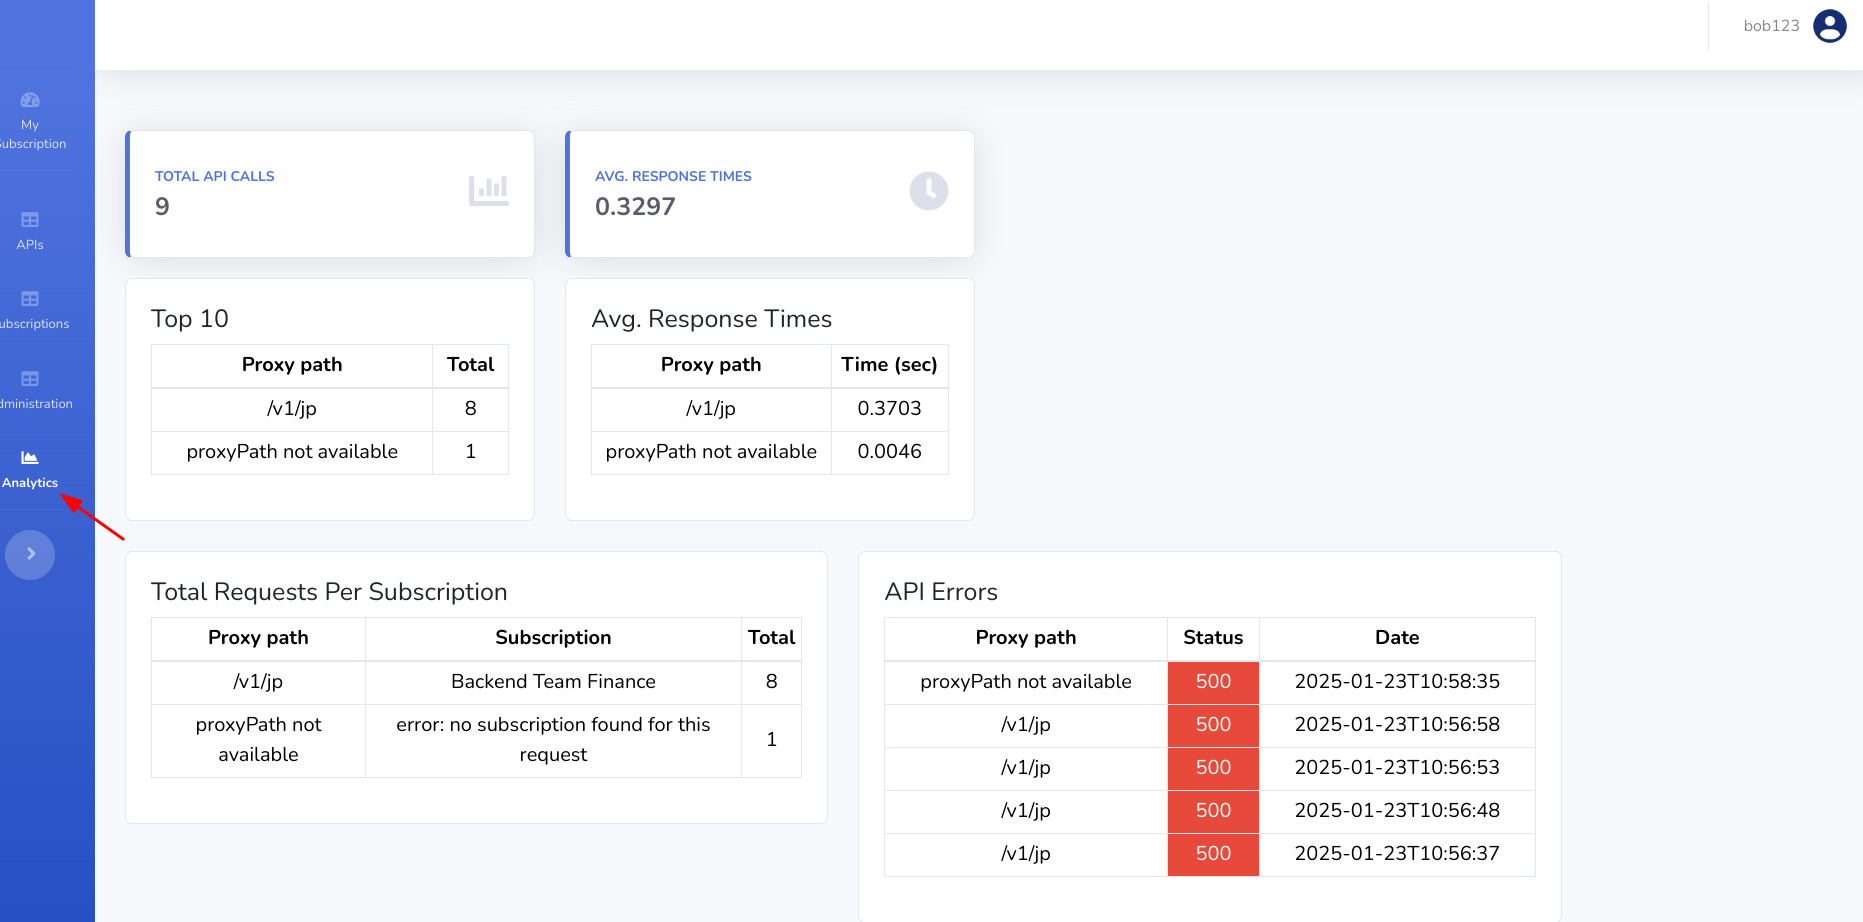
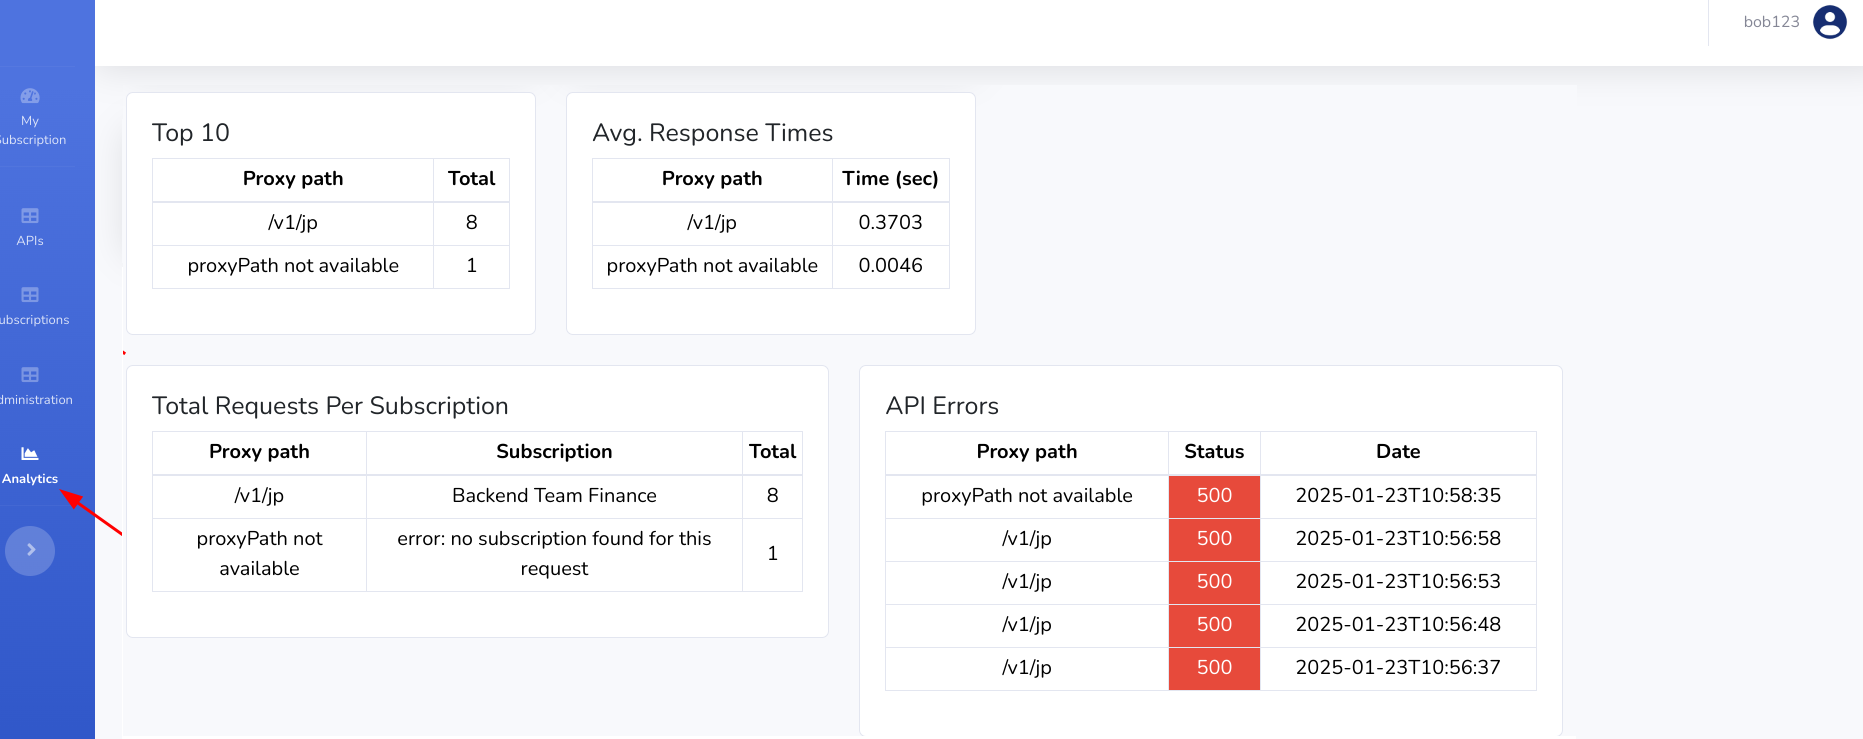
updated README.md

diff --git a/README.md b/README.md
@@ -78,16 +78,17 @@ For more info on how to use these modules, refer to the `README.md` file in each
     ContainerDb(trace, "OpenTelemetry", "", "Stores traces from APIM in OTeL format")
   }
 
+  Rel(apim, trace, "", "")
   Rel(web_app, apim-auth, "", "")
   Rel(service, apim-auth, "", "")
   Rel(prom, apim, "", "")
-  Rel(apim, trace, "", "")
   Rel(apim-prom, prom, "", "")
   Rel(apim-auth, apim, "", "")
   Rel(apim, db, "", "")
   Rel(dashboard, apim, "", "")
   Rel(dashboard, apim-prom, "", "")
   Rel(apim, backend, "", "")
+  
   
   UpdateRelStyle(dashboard, apim-prom, $textColor="red", $offsetX="0", $offsetY="140")
   UpdateLayoutConfig($c4ShapeInRow="3", $c4BoundaryInRow="1")
@@ -106,11 +107,12 @@ To build and run this project locally, you need the following libraries and tool
 
 ```mermaid
 classDiagram
+    class AccessList   
     Subscription "1..n" -- "1..n" Api
     Subscription "0..n" -- ApiCredential
     ApiCredential --> Api
 ```
-
+- _AccessList_: contains IP addresses that are either white- or blacklisted.
 - _Subscription_: this is similar to a team or an organisation who wants to subscribe and gain access to the APIM.
   A Subscription can have many Apis. After subscribing successfully, a subscription key will be generated. This is
   needed to gain access to the APIM.
@@ -224,14 +226,12 @@ If the logged-in user has a subscription, and the latter contains his username i
 
 Analytics only works if `apim-prometheus-client` is added to `apim-application`, and with a running Prometheus instance. See also [README.md of apim-prometheus](apim-prometheus-client/README.md).
 
-Analytics are shown, when the APIM has processed requests (see below), and it shows the following:
+Analytics are shown, when the APIM has processed requests (see below), and it shows the following **daily** metrics:
 
-- Total amount of all requests
-- Avg. response time of all requests
 - Top 10 API requests
 - Top 10 API avg. response times
 - Top 10 API requests per subscription
-- Top 10 API requests and its status
+- Top 10 API errors
 
 ![](/docs/img/analytics-01.png)
 ![](/docs/img/analytics-02.png)
